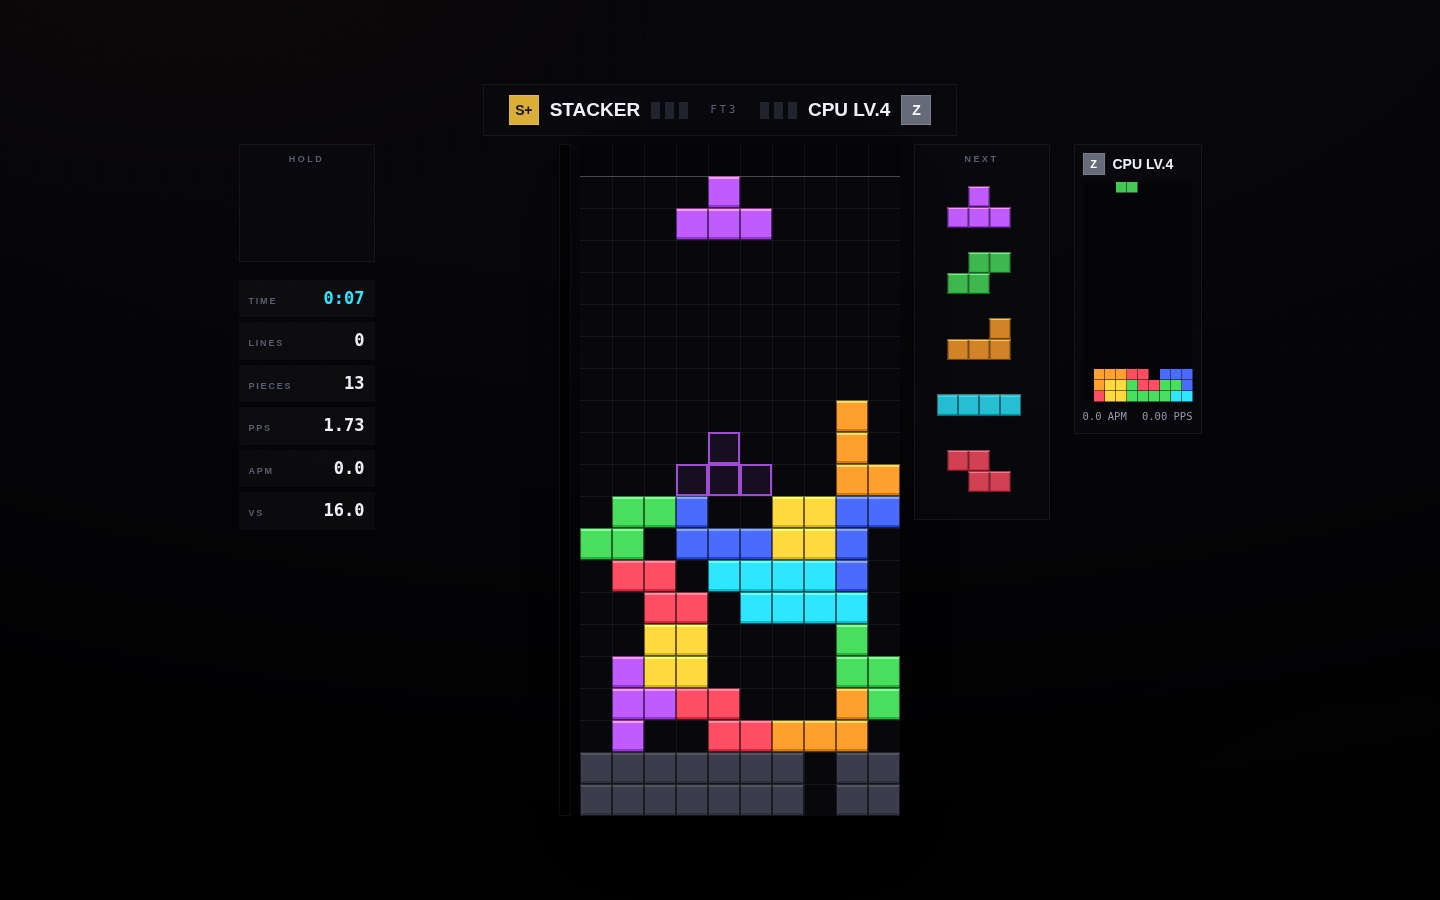
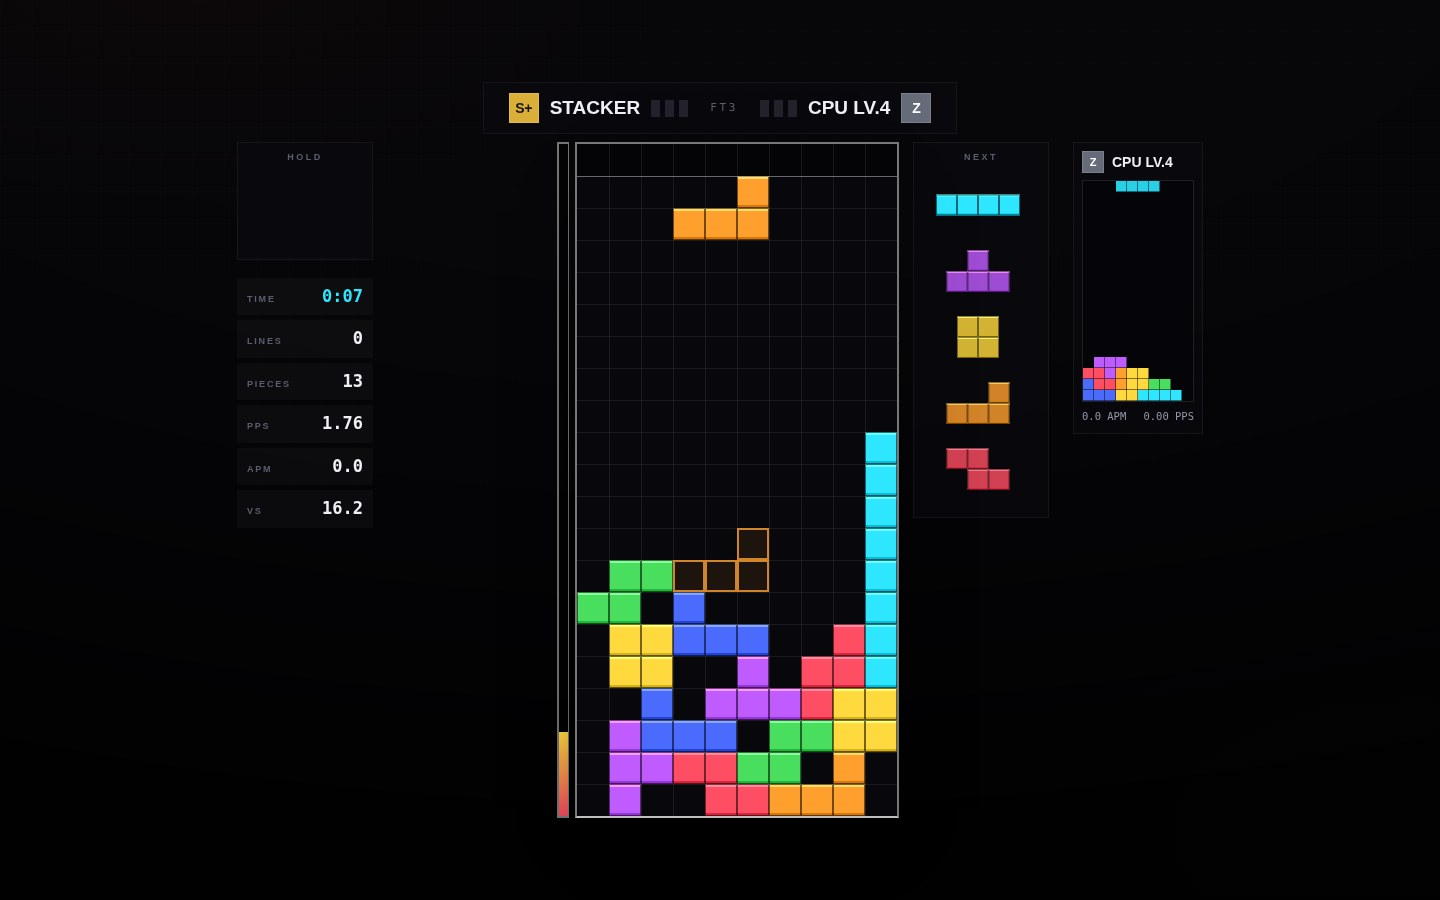
Give the well walls, and stop one player being matched into two rooms
Two unrelated reports.

The playfield had no boundary. The only thing marking where the ten columns
end was a one-pixel inset shadow at 11% white, which against a near-black
background is not a border — it is a rumour. Worse, being an inset shadow it
painted over the outermost column, so a piece resting against the wall
looked half-drawn. It is a real 2px border now, brighter along the floor
than the sides because the floor is the edge you judge a drop against, and
the grid inside went from 5.5% to 8% so the columns are countable. A browser
test measures the border's contrast against the field it encloses, so it
cannot quietly fade out again.

The matchmaking bug was worse than it sounded. Queue entries are pruned
after twelve seconds without a poll, and that included entries that had
already been paired — but a matched entry is not a heartbeat, it is the only
record that this player has an opponent. A client polling on a slow tick, or
one that took a moment to come back, would find no entry of its own, be put
in the queue as if new, and be paired a second time. That player then held a
seat in two ranked rooms, and their first opponent sat in a lobby waiting
for somebody who was never coming.

A matched entry is now kept until its owner has had a fair chance to collect
it, however slowly they are polling. Pairing also writes down which room
each player was committed to, so a client that reloaded, lost its response,
[…]

diff --git a/tests/server.test.js b/tests/server.test.js
@@ -373,6 +373,117 @@ t('leaving the queue removes the entry', () => {
   eq(rb.matched, false, 'should not match a player who left');
 });
 
+section('one player, one ranked match');
+
+/* Every one of these is a way the same player ended up committed to two
+   ranked rooms at once — which from the other side looks like being matched
+   against somebody who never turns up. */
+
+t('a slow poller collects the match they already have', () => {
+  const s = makeSandbox();
+  const a = newPlayer(s, 'Alpha'), b = newPlayer(s, 'Bravo'), c = newPlayer(s, 'Charlie');
+
+  ok(s.rpc('queueJoin', { id: a.id, token: a.token }));
+  const paired = ok(s.rpc('queueJoin', { id: b.id, token: b.token }));
+  eq(paired.matched, true, 'Bravo should pair with Alpha');
+
+  // Alpha has not polled since joining. Their entry is older than a waiting
+  // entry is allowed to be, but it is a matched entry, so it stands.
+  s.__clock.advance(20000);
+  ok(s.rpc('queueJoin', { id: c.id, token: c.token }));
+
+  const mine = ok(s.rpc('queuePoll', { id: a.id, token: a.token }));
+  eq(mine.matched, true, 'Alpha was never told about their own match');
+  eq(mine.room.code, paired.room.code, 'Alpha was sent to a different room than Bravo');
+
+  const room = s.Rooms_load(paired.room.code);
+  eq(room.players.length, 2, 'the ranked room does not hold exactly two');
+  eq(ok(s.rpc('queuePoll', { id: c.id, token: c.token })).matched, false, 'Charlie should still be waiting');
+});
+
+t('...even when the cache has lost the seat it was holding', () => {
+  const s = makeSandbox();
+  const a = newPlayer(s, 'Alpha'), b = newPlayer(s, 'Bravo'), c = newPlayer(s, 'Charlie');
+  ok(s.rpc('queueJoin', { id: a.id, token: a.token }));
+  const paired = ok(s.rpc('queueJoin', { id: b.id, token: b.token }));
+
+  // The seat key is the belt; the queue entry is the braces. Drop the belt.
+  assert(s.__evict('mm:seat:') > 0, 'expected seat keys to evict');
+  s.__clock.advance(20000);
+  ok(s.rpc('queueJoin', { id: c.id, token: c.token }));
+
+  const mine = ok(s.rpc('queuePoll', { id: a.id, token: a.token }));
+  eq(mine.matched, true, 'Alpha lost the match they had been given');
+  eq(mine.room.code, paired.room.code, 'Alpha was paired a second time, into a second room');
+});
+
+t('pressing ranked again during a match returns the same room', () => {
+  const s = makeSandbox();
+  const { a, code } = pairUp(s);
+  // A reload, a lost response, or an impatient second press.
+  const again = ok(s.rpc('queueJoin', { id: a.id, token: a.token }));
+  eq(again.matched, true, 'should be handed the match already in progress');
+  eq(again.room.code, code, 'a second room was created');
+  eq(s.Store_readAll('Rooms').filter(r => r.mode === 'ranked').length, 1, 'more than one ranked room exists');
+});
+
+t('cancelling really cancels', () => {
+  const s = makeSandbox();
+  const a = newPlayer(s, 'Alpha'), b = newPlayer(s, 'Bravo');
+  ok(s.rpc('queueJoin', { id: a.id, token: a.token }));
+  ok(s.rpc('queueJoin', { id: b.id, token: b.token }));
+
+  // Alpha presses cancel in the moment between being paired and hearing so.
+  ok(s.rpc('queueLeave', { id: a.id, token: a.token }));
+  ok(s.rpc('roomLeave', { id: a.id, token: a.token, code: s.Store_readAll('Rooms')[0].code }));
+
+  const fresh = ok(s.rpc('queueJoin', { id: a.id, token: a.token }));
+  eq(fresh.matched, false, 'a cancelled player was dragged back into the match');
+});
+
+t('a finished match does not trap you in it', () => {
+  const s = makeSandbox();
+  const { a, b, code } = pairUp(s);
+  const res = playMatch(s, a, b, code, 3, 0);
+  eq(res.room.state, 'matchover', 'match should be over');
+
+  // Play again: the old room is finished, so this is a new search.
+  const next = ok(s.rpc('queueJoin', { id: a.id, token: a.token }));
+  eq(next.matched, false, 'was handed the match that just ended');
+});
+
+t('nobody is ever handed a room they are not seated in', () => {
+  const s = makeSandbox();
+  const players = [];
+  for (let i = 0; i < 6; i++) players.push(newPlayer(s, 'P' + i));
+
+  // Join staggered, then poll on a slow, uneven timer — the shape that
+  // produced the double booking.
+  players.forEach(p => { s.__clock.advance(8000); ok(s.rpc('queueJoin', { id: p.id, token: p.token })); });
+  const seen = new Map();
+  for (let tick = 0; tick < 8; tick++) {
+    s.__clock.advance(9000);
+    players.forEach(p => {
+      if (seen.has(p.id)) return;
+      const r = ok(s.rpc('queuePoll', { id: p.id, token: p.token }));
+      if (r.matched) seen.set(p.id, r.room.code);
+    });
+  }
+
+  const byRoom = {};
+  seen.forEach((code, id) => { (byRoom[code] = byRoom[code] || []).push(id); });
+  Object.keys(byRoom).forEach(code => {
+    const room = s.Rooms_load(code);
+    eq(room.players.length, 2, code + ' holds ' + room.players.length + ' players');
+    eq(byRoom[code].length, 2, code + ' was handed to ' + byRoom[code].length + ' clients');
+    room.players.forEach(seat => {
+      assert(byRoom[code].indexOf(seat.id) !== -1,
+        code + ' seats somebody who was told about a different room');
+    });
+  });
+  note(Object.keys(byRoom).length + ' rooms, ' + seen.size + ' of 6 matched');
+});
+
 section('room state machine');
 function pairUp(s) {
   const a = newPlayer(s, 'Alpha'), b = newPlayer(s, 'Bravo');

diff --git a/src/css.html b/src/css.html
@@ -34,6 +34,11 @@
   --line:        rgba(255, 255, 255, 0.055);
   --line-2:      rgba(255, 255, 255, 0.115);
   --edge:        rgba(255, 255, 255, 0.045);   /* top-edge highlight */
+  /* The well has walls. A hairline is enough to separate two panels, but the
+     playfield is the one thing on screen you navigate by feel, and a border
+     you have to look for is a border that is not doing its job. */
+  --well:        rgba(255, 255, 255, 0.46);
+  --well-floor:  rgba(255, 255, 255, 0.74);
 
   /* ink ----------------------------------------------------------------- */
   --text:        #eef0f6;
@@ -924,12 +929,15 @@ body.keyboard-open .topbar { margin-bottom: 14px; }
 .stat.timer .v { color: var(--piece-i); }
 
 /* ---- board ---- */
-.board-wrap { position: relative; display: flex; align-items: stretch; gap: 9px; }
+.board-wrap { position: relative; display: flex; align-items: stretch; gap: 6px; }
 
+/* Framed like the well beside it, so the two read as one instrument rather
+   than a bar that happens to be nearby. */
 .garbage-meter {
   width: 12px; align-self: stretch;
   background: rgba(0,0,0,0.55);
-  box-shadow: inset 0 0 0 1px var(--line);
+  border: 2px solid var(--well);
+  border-right-width: 1px;
   display: flex; flex-direction: column-reverse; overflow: hidden;
 }
 .garbage-fill {
@@ -943,10 +951,16 @@ body.keyboard-open .topbar { margin-bottom: 14px; }
 }
 @keyframes danger-pulse { to { filter: brightness(1.5); } }
 
+/* A real border rather than an inset shadow: the shadow painted over the
+   outermost column of cells, so a piece against the wall looked half-drawn.
+   The floor is brighter than the walls because that is the edge you judge a
+   drop against. */
 .board-frame {
   position: relative;
   background: rgba(4,4,7,0.9);
-  box-shadow: inset 0 0 0 1px var(--line-2), 0 30px 80px -40px #000;
+  border: 2px solid var(--well);
+  border-bottom-color: var(--well-floor);
+  box-shadow: 0 30px 80px -40px #000;
 }
 canvas#board { display: block; }
 
@@ -1017,7 +1031,10 @@ canvas#board { display: block; }
 .opponent.targeted { box-shadow: inset 0 0 0 2px var(--accent), 0 0 34px -12px var(--accent); }
 .opponent-head { display: flex; align-items: center; gap: 8px; }
 .opponent-name { font-weight: 700; font-size: 14px; flex: 1; }
-.opponent canvas { display: block; background: rgba(4,4,7,0.9); box-shadow: inset 0 0 0 1px var(--line); }
+.opponent canvas {
+  display: block; background: rgba(4,4,7,0.9);
+  border: 1px solid var(--line-2);
+}
 .opponent-stats {
   display: flex; justify-content: space-between; gap: 6px;
   font-family: var(--font-mono); font-size: 10.5px; color: var(--dim);

diff --git a/tests/browser.test.js b/tests/browser.test.js
@@ -250,6 +250,41 @@ const { testAsync: t, assert, eq, section, note, finish } = require('./lib/repor
     assert(h && parseFloat(h) > 0, 'meter empty: ' + h);
   });
 
+  await t('the well has walls you can see without looking for them', async () => {
+    // The playfield is the one thing on screen you navigate by feel. A
+    // hairline that disappears into the background is how you lose track of
+    // which column you are over.
+    const frame = await page.evaluate(() => {
+      const page = getComputedStyle(document.body).backgroundColor;
+      const parse = css => (css.match(/[\d.]+/g) || [0, 0, 0]).map(Number);
+      const lum = (rgba, under) => {
+        const [r, g, b, a = 1] = parse(rgba);
+        const [br, bg, bb] = parse(under);
+        const mix = [r * a + br * (1 - a), g * a + bg * (1 - a), b * a + bb * (1 - a)];
+        const lin = mix.map(v => {
+          const c = v / 255;
+          return c <= 0.03928 ? c / 12.92 : Math.pow((c + 0.055) / 1.055, 2.4);
+        });
+        return 0.2126 * lin[0] + 0.7152 * lin[1] + 0.0722 * lin[2];
+      };
+      const el = document.querySelector('.board-frame');
+      const cs = getComputedStyle(el);
+      const inside = lum(cs.backgroundColor, page);
+      return {
+        wall: parseFloat(cs.borderLeftWidth),
+        floor: parseFloat(cs.borderBottomWidth),
+        wallContrast: (lum(cs.borderLeftColor, page) + 0.05) / (inside + 0.05),
+        floorContrast: (lum(cs.borderBottomColor, page) + 0.05) / (inside + 0.05)
+      };
+    });
+    note('wall ' + frame.wall + 'px ×' + frame.wallContrast.toFixed(1) +
+         ' · floor ' + frame.floor + 'px ×' + frame.floorContrast.toFixed(1));
+    assert(frame.wall >= 2, 'the side walls are ' + frame.wall + 'px');
+    assert(frame.floor >= 2, 'the floor is ' + frame.floor + 'px');
+    assert(frame.wallContrast >= 3, 'the walls sit at ' + frame.wallContrast.toFixed(1) + ':1 against the field');
+    assert(frame.floorContrast >= frame.wallContrast, 'the floor should read at least as strongly as the walls');
+  });
+
   await t('escape leaves the CPU match', async () => {
     await page.keyboard.press('Escape');
     await page.waitForSelector('#screen-menu.active', { timeout: 5000 });

diff --git a/src/js_render.html b/src/js_render.html
@@ -94,7 +94,7 @@ var Render = (function () {
     ctx.fillRect(0, 0, w, fieldTop);
 
     if (opts.grid !== false) {
-      ctx.strokeStyle = 'rgba(255,255,255,0.055)';
+      ctx.strokeStyle = 'rgba(255,255,255,0.08)';
       ctx.lineWidth = 1;
       ctx.beginPath();
       for (var gx = 1; gx < BOARD_W; gx++) {
@@ -150,8 +150,9 @@ var Render = (function () {
       }
     }
 
-    // Field boundary line.
-    ctx.strokeStyle = 'rgba(255,255,255,0.22)';
+    // The ceiling: everything above this line is the spawn buffer, and a
+    // piece resting on it means the next one has nowhere to go.
+    ctx.strokeStyle = 'rgba(255,255,255,0.34)';
     ctx.lineWidth = 1;
     ctx.beginPath();
     ctx.moveTo(0, fieldTop + 0.5);

diff --git a/README.md b/README.md
@@ -415,9 +415,9 @@ npm run test:fast    # 브라우저 없이 Node 스위트만
 |---|---|---|
 | `engine` | 27 | 7-bag 균등성, SRS 회전 사이클과 벽 충돌, 라인 클리어와 행 압축, T-스핀 코너 규칙과 실제 TSD, 공격 테이블, 가비지 삽입·상쇄·상한·지연, 탑아웃과 Zen, 직렬화, 봇 300피스 완주 |
 | `rating` | 14 | Glickman(2013) 논문 예제 대조 (1464.06 / 151.52 / 0.05999), RD 수렴, 업셋 보상, TR 단조성, **이긴 쪽이 레이팅을 잃지 않음** |
-| `server` | 75 | 가입·로그인·로그아웃, 비밀번호 저장과 시도 제한, 게스트와 계정 전환, 구버전 계정 호환, **계정별 설정 저장·범위 검증·키바인드 검증·손상된 값 폴백**, 토큰, 매칭 페어링과 밴드 확장, 방 상태머신, 연결 끊김, 공격 릴레이와 로그 상한, FT3 정산 1회성, 재대결 방지·허용, 방 권한과 정원, 백분위 랭크, 관전 입·퇴장과 좌석 전환, 채팅 전달·도배 제한·이스케이프, 규칙 범위 검증, KO 귀속, **캐시가 통째로 날아간 뒤에도 이어지는 경기·방 목록·유휴 방 유지** |
+| `server` | 81 | 가입·로그인·로그아웃, 비밀번호 저장과 시도 제한, 게스트와 계정 전환, 구버전 계정 호환, 계정별 설정 저장·범위 검증·키바인드 검증·손상된 값 폴백, 토큰, **한 사람이 랭크 방 두 개에 동시에 잡히지 않는지(느린 폴링·재입장·취소·경기 종료 후)**, 매칭 페어링과 밴드 확장, 방 상태머신, 연결 끊김, 공격 릴레이와 로그 상한, FT3 정산 1회성, 재대결 방지·허용, 방 권한과 정원, 백분위 랭크, 관전 입·퇴장과 좌석 전환, 채팅 전달·도배 제한·이스케이프, 규칙 범위 검증, KO 귀속, **캐시가 통째로 날아간 뒤에도 이어지는 경기·방 목록·유휴 방 유지** |
 | `template` | 8 | `doGet` 이 만드는 페이지를 HtmlService 와 같은 규칙으로 렌더링해 검사 — 스크립틀릿 잔여물, include 해석과 순서, 모든 `<script>` 블록의 파싱(= `<?= ?>` 이스케이프로 JS가 깨지는 사고 차단), 매니페스트, 클라이언트/서버 RPC 목록 일치 |
-| `browser` | 57 | 실제 Chromium에서 **가입·로그인 실패·로그아웃·게스트→계정 전환** → 40 LINES 완주 → CPU 대전 → 랭킹·설정·키 리바인드 → 방 생성, 규칙 편집기·채팅·타겟팅 4종·이펙트 발생과 소멸·화면 전환 휘도, 한글에 자간이 벌어지지 않는지·[hidden]이 실제로 숨는지·장식 레이어가 클릭을 삼키지 않는지, 소프트 키보드가 올라왔을 때의 가시 영역·입력창 글자 크기·짧은 창에서의 보드 축소, **설정을 바꾸고 로그아웃한 뒤 다른 기기처럼 다시 들어와도 그대로인지**, 무오류 확인 |
+| `browser` | 58 | 실제 Chromium에서 **가입·로그인 실패·로그아웃·게스트→계정 전환** → 40 LINES 완주 → CPU 대전 → 랭킹·설정·키 리바인드 → 방 생성, 규칙 편집기·채팅·타겟팅 4종·이펙트 발생과 소멸·화면 전환 휘도, 한글에 자간이 벌어지지 않는지·[hidden]이 실제로 숨는지·장식 레이어가 클릭을 삼키지 않는지, 소프트 키보드가 올라왔을 때의 가시 영역·입력창 글자 크기·짧은 창에서의 보드 축소, 설정을 바꾸고 로그아웃한 뒤 다른 기기처럼 다시 들어와도 그대로인지, **보드 테두리가 실제로 보이는 대비인지**, 무오류 확인 |
 | `online` | 26 | 탭 **세 개**가 공유 백엔드로 실제 대전: 시드 일치, 가비지 전달, 라운드 판정, 경기 전체 통계, TR 정산, **관전자가 두 보드를 보고 채팅에 참여** |
 
 배포 없이 대전을 확인하고 싶다면 `node tests/serve.js` 를 띄우고 출력된
